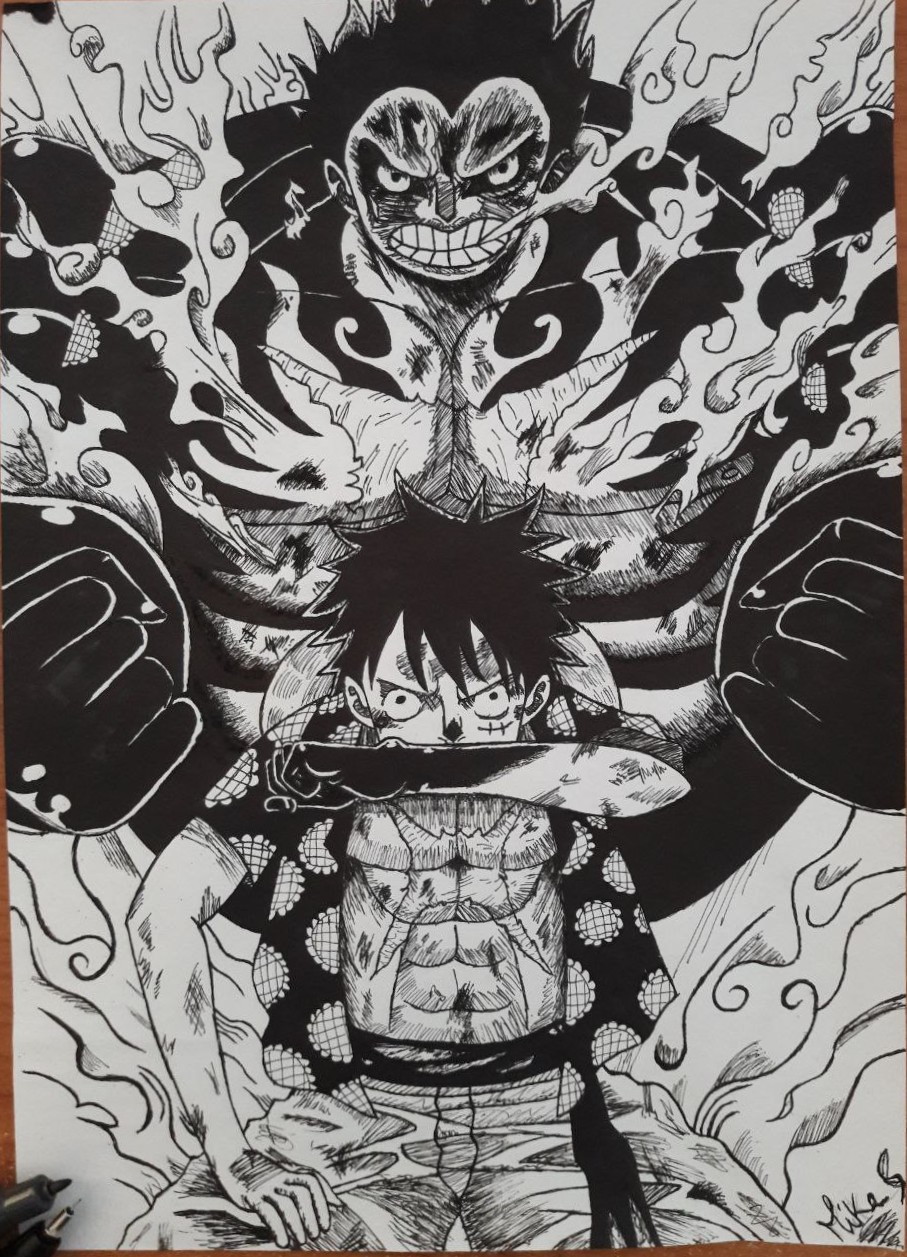
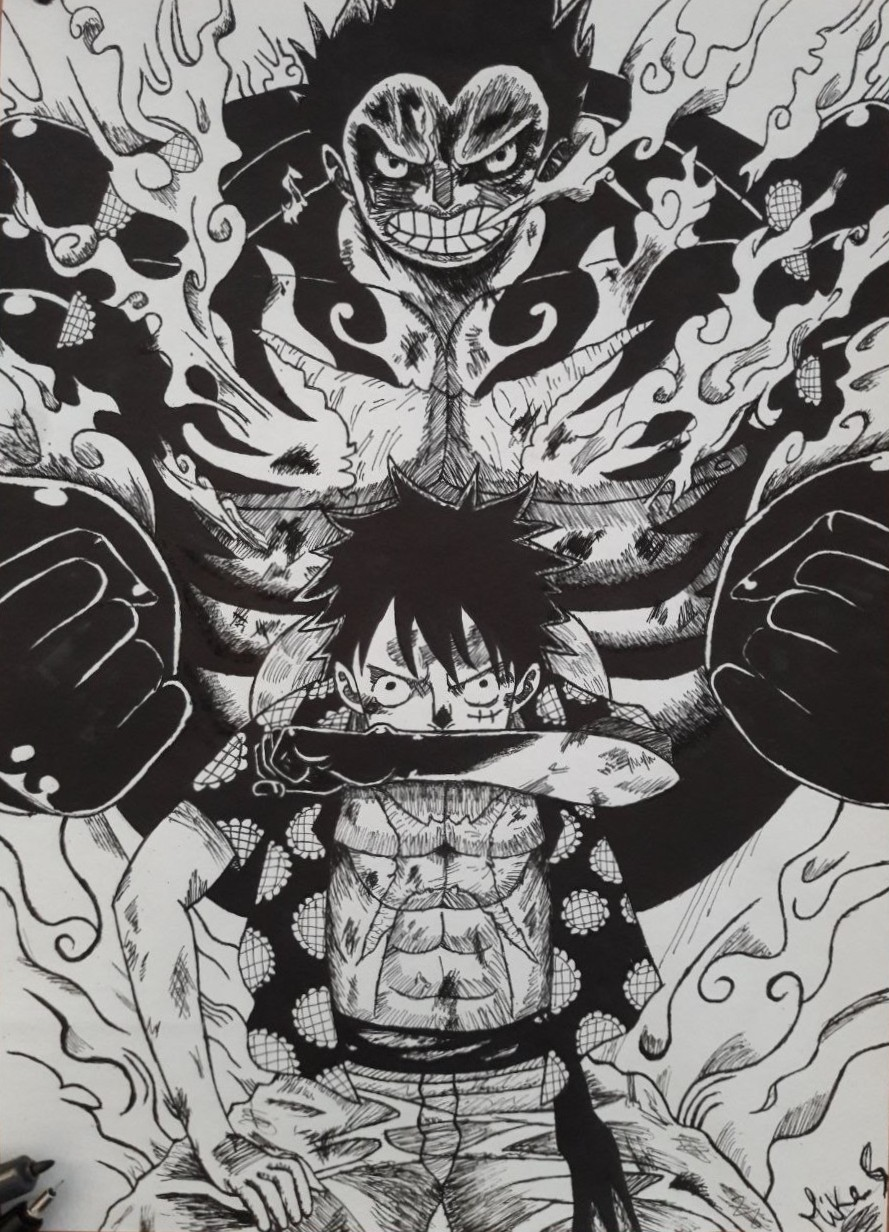
Fixed images and added page transition animation

diff --git a/utilities/artImages.tsx b/utilities/artImages.tsx
@@ -224,85 +224,85 @@ export const pandify: ArtImage[] = [
     badges: [BADGES.DIGITAL],
   },
   {
-    img: "/images/pandify/noWritings/1.jpg",
+    img: "/images/pandify/withWritings/1.jpg",
     title: '"Ombre"',
     date: "2020-11-11",
     badges: [BADGES.DIGITAL],
   },
   {
-    img: "/images/pandify/noWritings/2.jpg",
+    img: "/images/pandify/withWritings/2.jpg",
     title: '"Record"',
     date: "2020-11-12",
     badges: [BADGES.DIGITAL],
   },
   {
-    img: "/images/pandify/noWritings/3.jpg",
+    img: "/images/pandify/withWritings/3.jpg",
     title: '"Palazzina Gialla"',
     date: "2020-11-16",
     badges: [BADGES.DIGITAL],
   },
   {
-    img: "/images/pandify/noWritings/4.jpg",
+    img: "/images/pandify/withWritings/4.jpg",
     title: '"La tua futura ex moglie"',
     date: "2020-11-19",
     badges: [BADGES.DIGITAL],
   },
   {
-    img: "/images/pandify/noWritings/5.jpg",
+    img: "/images/pandify/withWritings/5.jpg",
     title: '"Non ci sei più"',
     date: "2020-11-28",
     badges: [BADGES.DIGITAL],
   },
   {
-    img: "/images/pandify/noWritings/6.jpg",
+    img: "/images/pandify/withWritings/6.jpg",
     title: '"Festa"',
     date: "2020-12-08",
     badges: [BADGES.DIGITAL],
   },
   {
-    img: "/images/pandify/noWritings/7.jpg",
+    img: "/images/pandify/withWritings/7.jpg",
     title: '"Stanza singola"',
     date: "2020-12-18",
     badges: [BADGES.DIGITAL],
   },
   {
-    img: "/images/pandify/noWritings/8.jpg",
+    img: "/images/pandify/withWritings/8.jpg",
     title: '"Maionese"',
     date: "2020-12-25",
     badges: [BADGES.DIGITAL],
   },
   {
-    img: "/images/pandify/noWritings/9.jpg",
+    img: "/images/pandify/withWritings/9.jpg",
     title: '"Settebello"',
     date: "2020-12-27",
     badges: [BADGES.DIGITAL, BADGES.PENCIL],
   },
   {
-    img: "/images/pandify/noWritings/10.jpg",
+    img: "/images/pandify/withWritings/10.jpg",
     title: '"Cialde"',
     date: "2021-01-06",
     badges: [BADGES.DIGITAL, BADGES.PENCIL],
   },
   {
-    img: "/images/pandify/noWritings/11.jpg",
+    img: "/images/pandify/withWritings/11.jpg",
     title: '"Someone to you"',
     date: "2021-02-22",
     badges: [BADGES.DIGITAL],
   },
   {
-    img: "/images/pandify/noWritings/12.jpg",
+    img: "/images/pandify/withWritings/12.jpg",
     title: '"Appuntamento"',
     date: "2021-03-10",
     badges: [BADGES.DIGITAL],
   },
   {
-    img: "/images/pandify/noWritings/13.jpg",
+    img: "/images/pandify/withWritings/13.jpg",
     title: '"Fiamme negli occhi"',
     date: "2021-07-11",
     badges: [BADGES.DIGITAL],
   },
   {
-    img: "/images/pandify/noWritings/14.jpg",
+    img: "/images/pandify/withWritings/14.jpg",
     title: '"Bacio illimitato"',
     date: "2021-12-26",
     badges: [BADGES.DIGITAL],

diff --git a/components/organisms/Layout/index.tsx b/components/organisms/Layout/index.tsx
@@ -15,6 +15,7 @@ import {Montserrat, Rubik} from "next/font/google"
 import {SpeedInsights} from "@vercel/speed-insights/next"
 
 import postRequest from "../../../utilities/postRequest"
+import {motion} from "framer-motion"
 
 const montserrat = Montserrat({
   // weight: ["700"],
@@ -82,19 +83,29 @@ const Index = ({children, noGameLink = false, noBackground = false}: LayoutProps
   }
 
   return (
-    <main className={`${montserrat.className} ${rubik.className}`}>
-      <SpeedInsights />
-      {!noBackground && <Background />}
-      <div id="top" className={styles.layout}>
-        <ProgressPage />
-        <Network />
-        {children}
+    <motion.main
+      initial={{opacity: 0}}
+      animate={{opacity: 1}}
+      exit={{opacity: 0}}
+      transition={{
+        duration: 0.3,
+        ease: "easeInOut",
+      }}
+    >
+      <div className={`${montserrat.className} ${rubik.className}`}>
+        <SpeedInsights />
+        {!noBackground && <Background />}
+        <div id="top" className={styles.layout}>
+          <ProgressPage />
+          <Network />
+          {children}
 
-        <Separator />
-        <Footer noGameLink={noGameLink} />
+          <Separator />
+          <Footer noGameLink={noGameLink} />
+        </div>
+        {!noGameLink && <ArrowUp />}
       </div>
-      {!noGameLink && <ArrowUp />}
-    </main>
+    </motion.main>
   )
 }
 

diff --git a/components/atoms/ArtCard/index.tsx b/components/atoms/ArtCard/index.tsx
@@ -2,6 +2,7 @@ import React from "react"
 import Image from "next/image"
 import styles from "./index.module.scss"
 import {ArtImage, BADGE_COLORS} from "@utilities/artImages"
+import Link from "next/link"
 
 interface ArtCardProps {
   keyIndex: number
@@ -9,11 +10,14 @@ interface ArtCardProps {
   setSelectedImg: (key: number) => void
   setImgPop: (value: boolean) => void
   active?: boolean
+  link?: string
 }
 
-const Index: React.FC<ArtCardProps> = ({keyIndex, loc, setSelectedImg, setImgPop, active = false}) => {
+const Index: React.FC<ArtCardProps> = ({keyIndex, loc, setSelectedImg, setImgPop, active = false, link}) => {
+  const Element = link ? Link : "div"
   return (
-    <a
+    <Element
+      href={link ?? "#"}
       className={(keyIndex * 7 * 2) % 3 === 0 ? styles.galleryItemWide : styles.galleryItem}
       style={{
         height: `${(keyIndex * 7 * 2) % 4 === 0 ? 350 : 400}px`,
@@ -46,7 +50,7 @@ const Index: React.FC<ArtCardProps> = ({keyIndex, loc, setSelectedImg, setImgPop
           </div>
         ))}
       </div>
-    </a>
+    </Element>
   )
 }
 

diff --git a/pages/_app.tsx b/pages/_app.tsx
@@ -1,8 +1,12 @@
 import "../styles/globals.scss"
 import type {AppProps} from "next/app"
 import {Analytics} from "@vercel/analytics/react"
+import {AnimatePresence} from "framer-motion"
+import {useRouter} from "next/router"
 
 function MyApp({Component, pageProps}: AppProps) {
+  const router = useRouter()
+
   process.on("unhandledRejection", (reason, promise) => {
     console.error("Unhandled Rejection at:", promise, "reason:", reason)
     // Add a fallback or logging mechanism here if needed
@@ -12,10 +16,10 @@ function MyApp({Component, pageProps}: AppProps) {
     }
   })
   return (
-    <>
-      <Component {...pageProps} />
+    <AnimatePresence mode="wait" initial={false} onExitComplete={() => window.scrollTo(0, 0)}>
+      <Component key={router.pathname} {...pageProps} />
       <Analytics />
-    </>
+    </AnimatePresence>
   )
 }
 

diff --git a/pages/art/[slug]/index.tsx b/pages/art/[slug]/index.tsx
@@ -2,6 +2,7 @@ import React from "react"
 import {anime, ArtImage, categories, drawings, pandify} from "@utilities/artImages"
 import ArtGallery from "@molecules/ArtGallery"
 import Layout from "@organisms/Layout"
+import Link from "next/link"
 
 interface IndexProps {
   error: boolean
@@ -13,6 +14,9 @@ interface IndexProps {
 const Index = ({error, images, title, description}: IndexProps) => {
   return (
     <Layout noBackground noGameLink>
+      <Link href="/art" className="goBack">
+        &lt;
+      </Link>
       <h1 className="artTitle">{title}</h1>
       {description ? <p className="artDescription" dangerouslySetInnerHTML={{__html: description}} /> : <></>}
       {!error ? <ArtGallery images={images} /> : <h2>Gallery not found</h2>}

diff --git a/components/molecules/ArtCategories/index.tsx b/components/molecules/ArtCategories/index.tsx
@@ -7,10 +7,6 @@ import {categories} from "@utilities/artImages"
 const Index = ({randNum}: {randNum: number}) => {
   const router = useRouter()
 
-  const setSelectedImg = (key: number) => {
-    router.push(categories[key].link)
-  }
-
   return (
     <div className={styles.wrap}>
       <h1 className="artTitle">Categories</h1>
@@ -21,8 +17,9 @@ const Index = ({randNum}: {randNum: number}) => {
             keyIndex={0}
             key={index}
             loc={{img: cat.logo(randNum), title: cat.name}}
-            setSelectedImg={() => setSelectedImg(index)}
+            setSelectedImg={() => {}}
             setImgPop={() => {}}
+            link={categories[index].link}
           />
         ))}
       </div>

diff --git a/styles/globals.scss b/styles/globals.scss
@@ -77,3 +77,17 @@ body {
     padding: 0 2rem;
   }
 }
+
+.goBack {
+  position: absolute;
+  top: 2.5rem;
+  left: 2.5rem;
+  font-size: 2.5rem;
+  text-decoration: none;
+  color: var(--pink);
+  display: none;
+
+  @media screen and (min-width: 768px) {
+    display: block;
+  }
+}

diff --git a/components/molecules/ArtCategories/index.module.scss b/components/molecules/ArtCategories/index.module.scss
@@ -5,7 +5,7 @@
   justify-content: flex-start;
   width: 100%;
   min-height: 90vh;
-  gap: 10rem;
+  gap: 5rem;
   margin-bottom: 5rem;
 
   h1 {
